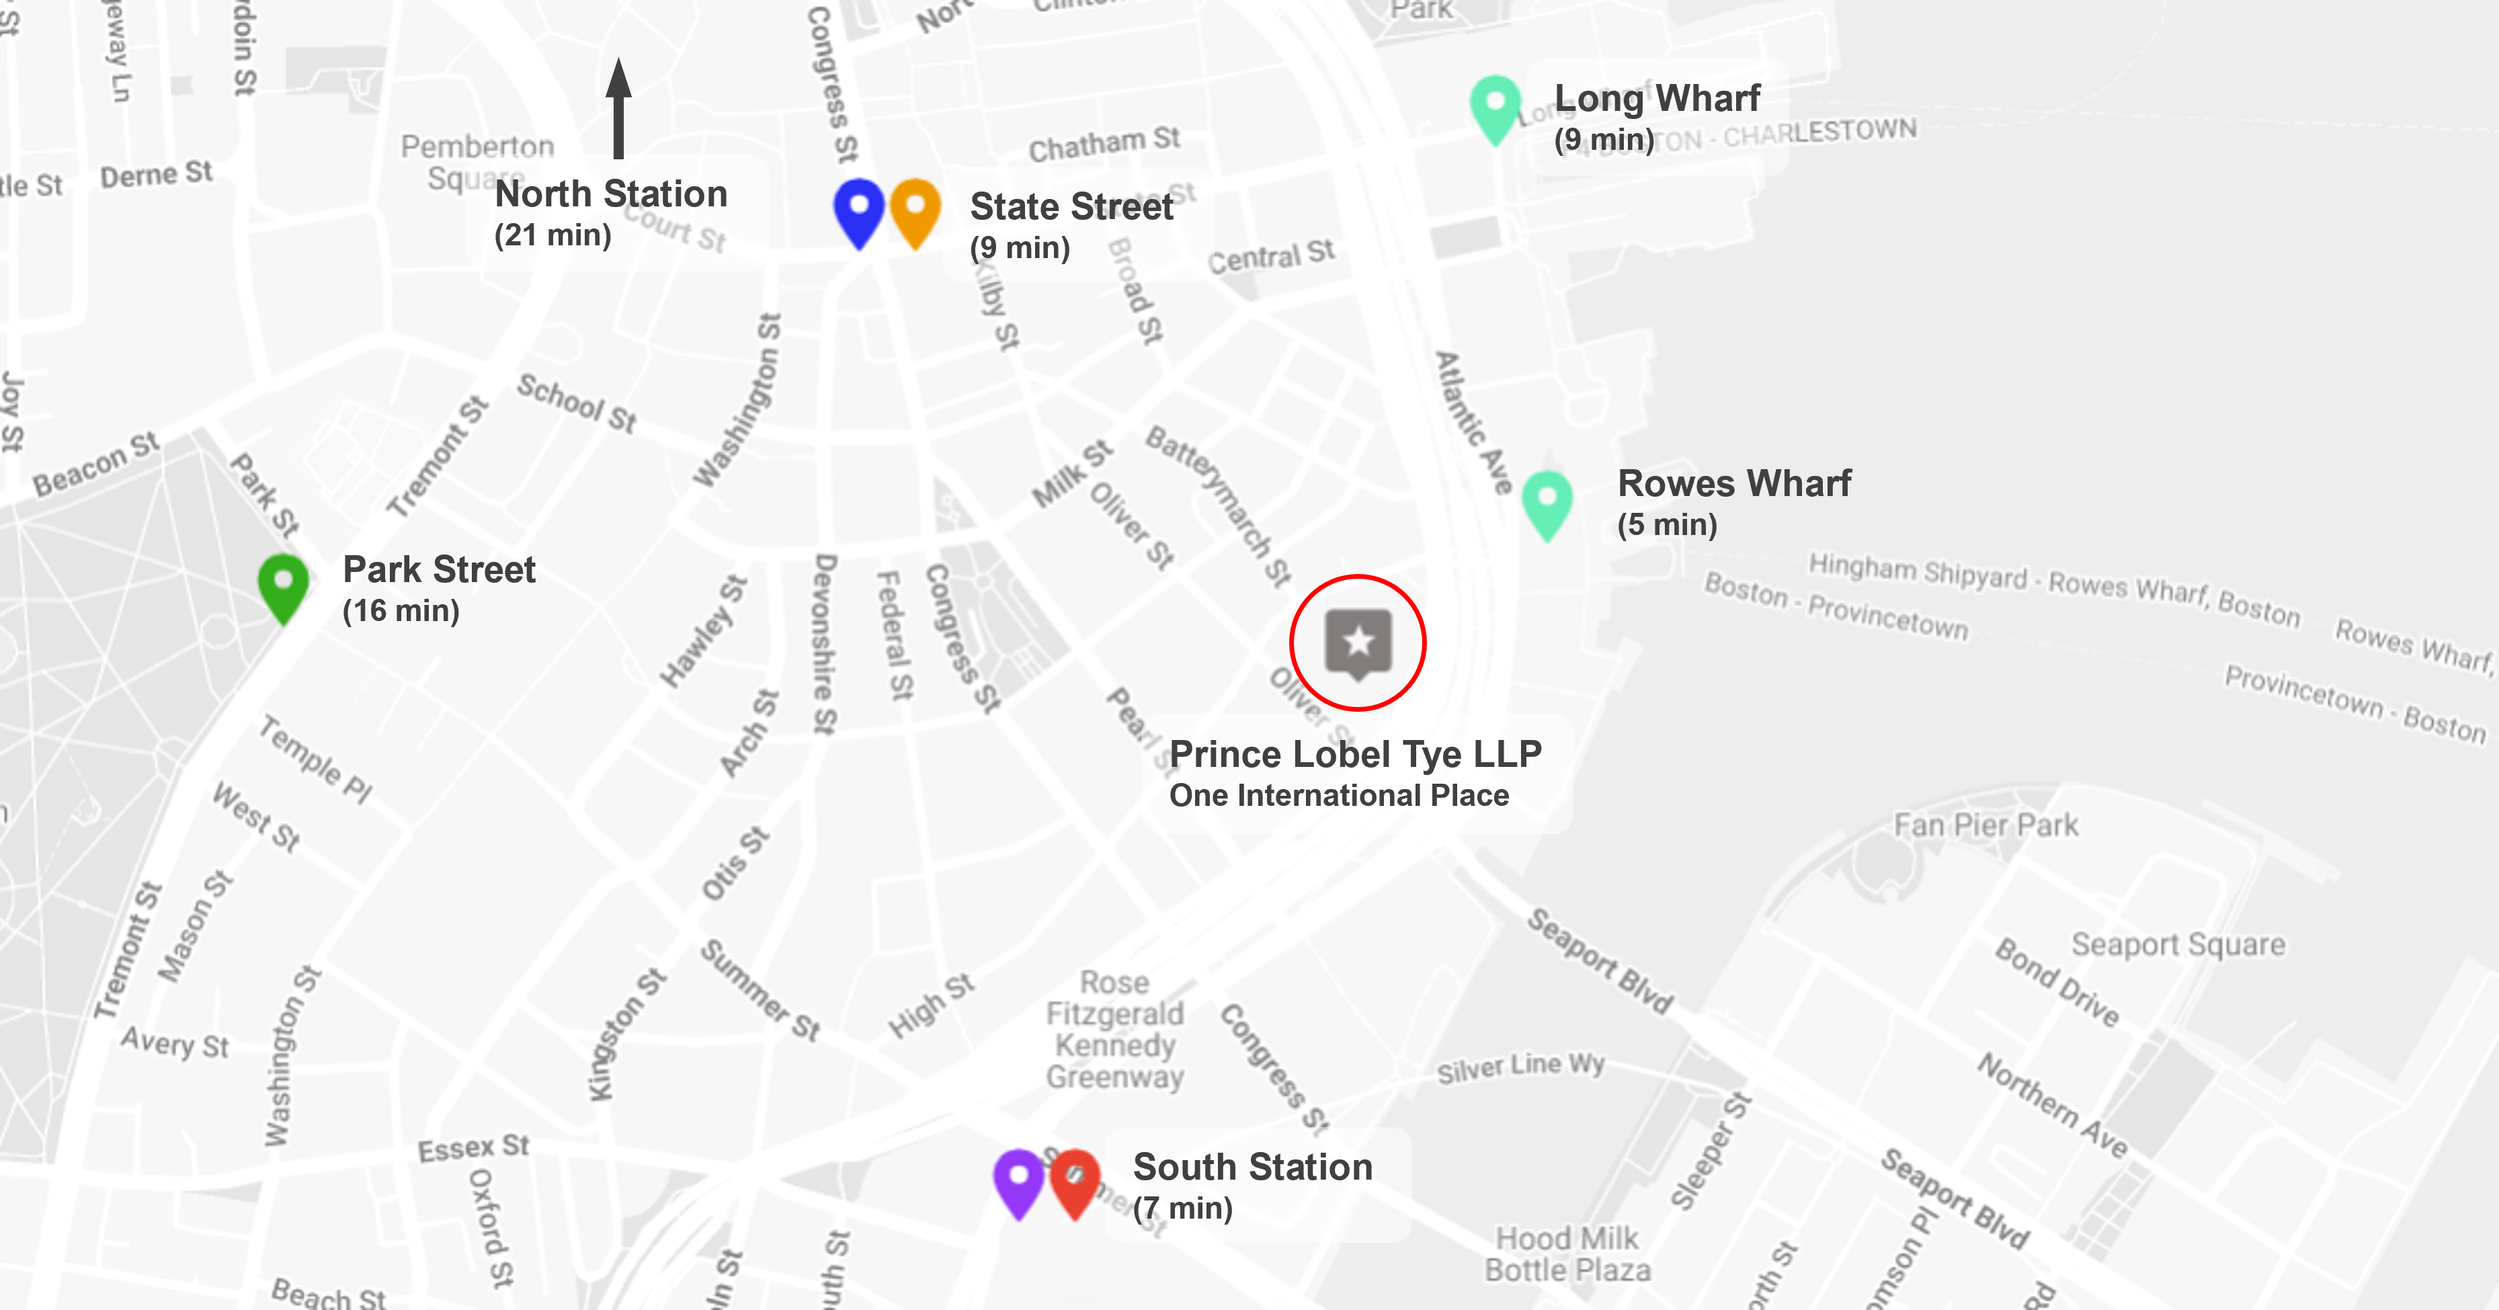
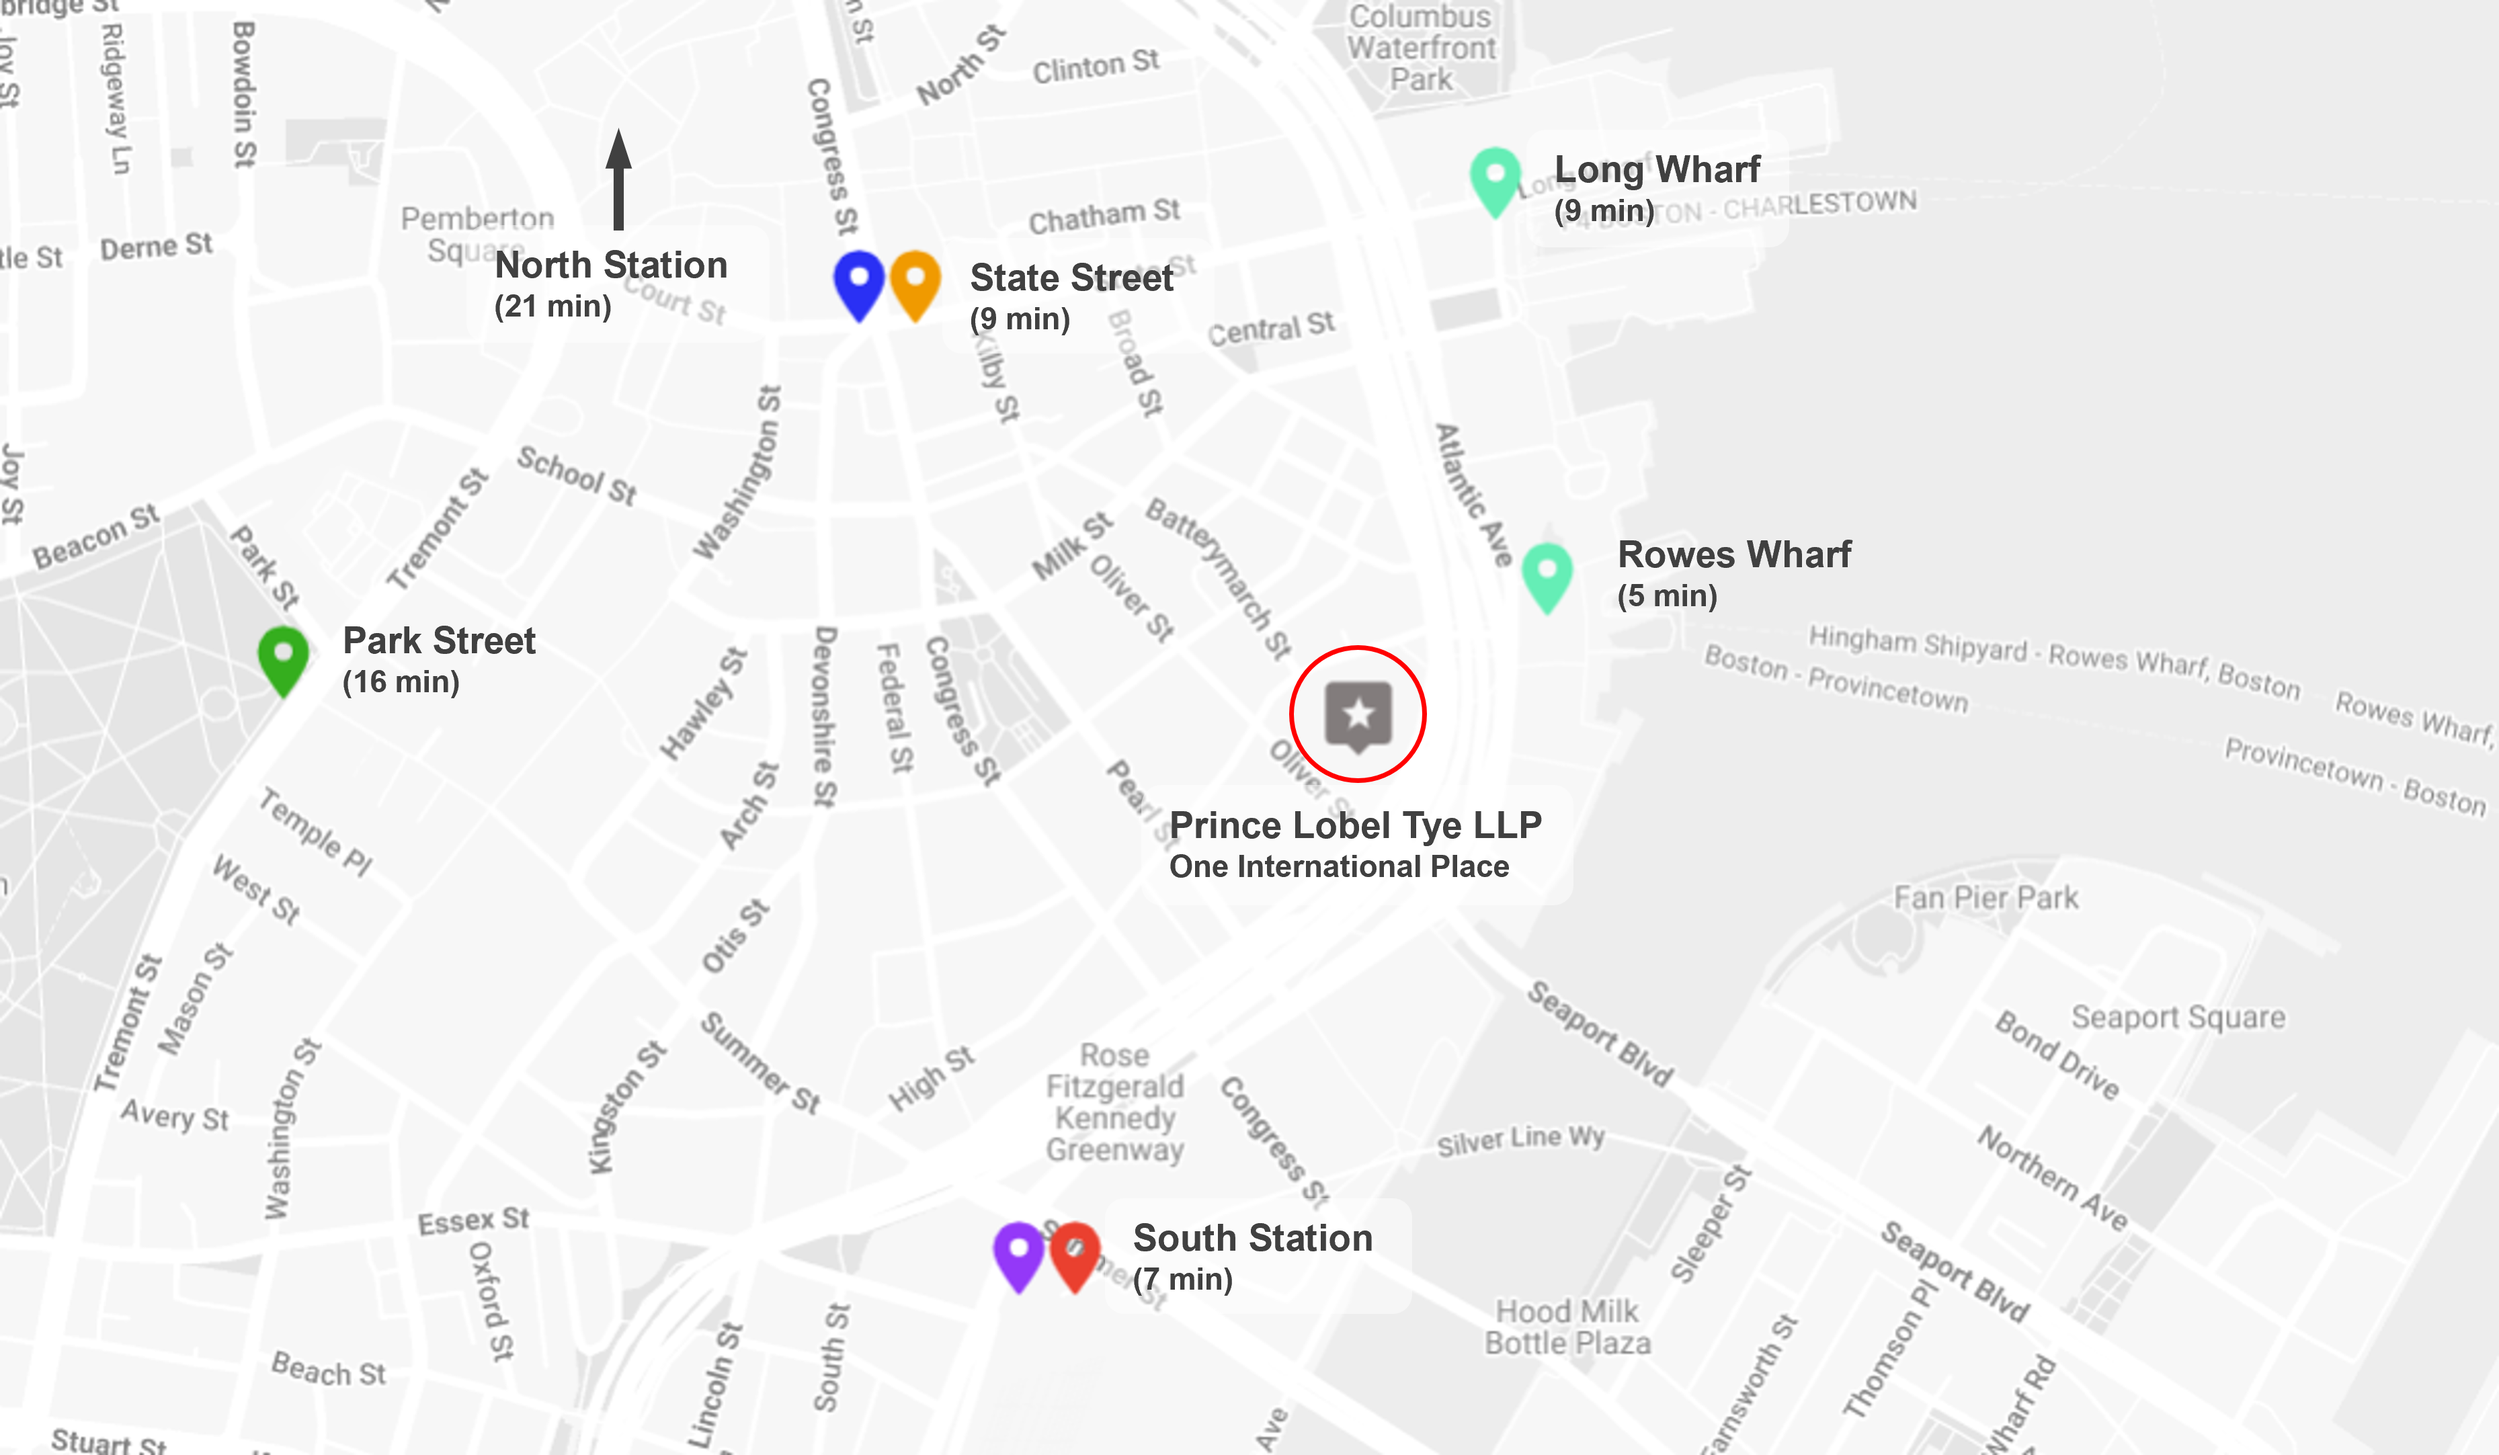
spacinggg

diff --git a/public/v3/styles.css b/public/v3/styles.css
@@ -193,7 +193,7 @@ body {
 #map-container {
     flex-shrink: 0;
     width: 100%;
-    height: 545px;
+    height: 606px;
     background: #e8e8e8;
     border-radius: 4px;
     overflow: hidden;
